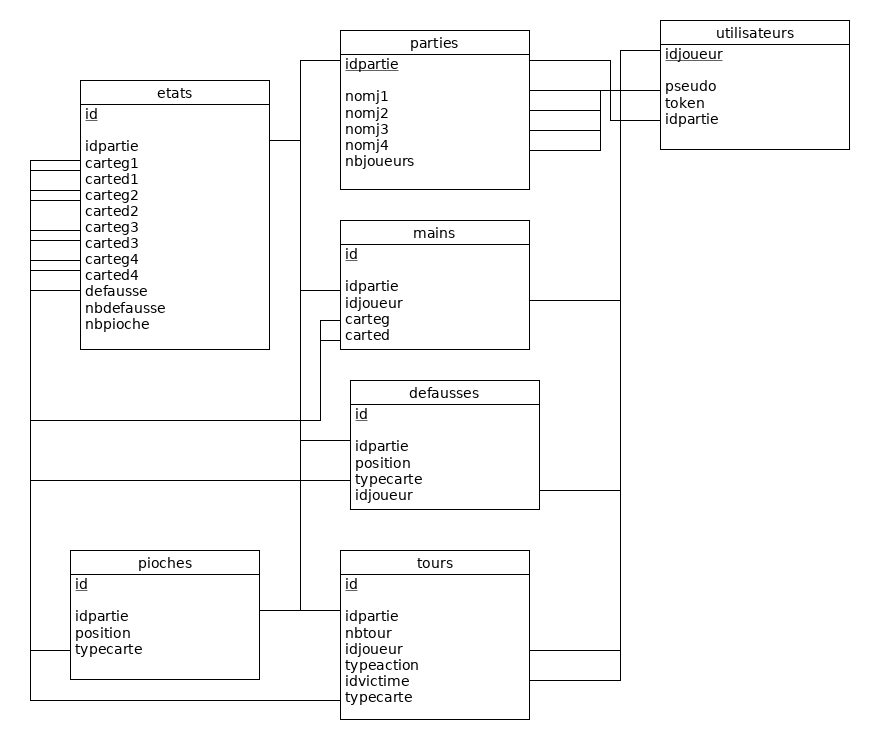
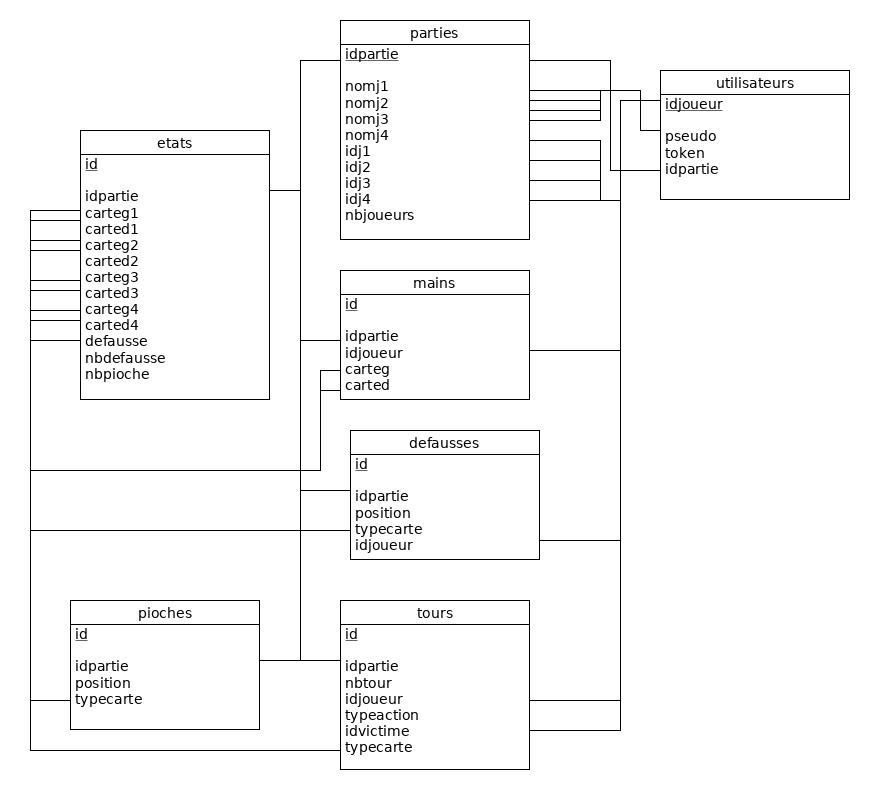
Changement de la BDD et creation des méthodes tirerCarte

diff --git a/app/Partie.php b/app/Partie.php
@@ -11,18 +11,21 @@ class Partie extends Model
     protected $primaryKey = 'idpartie';
 
     protected $attributes = array(
-      'nomj2' => '', 'nomj3' => '', 'nomj4' => ''
+      'nomj2' => '', 'nomj3' => '', 'nomj4' => '', 'idj2' => -1, 'idj3' => -1, 'idj4' => -1
     );
 
     protected $fillable = [
-        'idpartie', 'nomj1', 'nomj2', 'nomj3', 'nomj4', 'nbjoueurs'
+        'idpartie', 'nomj1', 'nomj2', 'nomj3', 'nomj4', 'nbjoueurs', 'idj1', 'idj2', 'idj3', 'idj4'
     ];
 
     //Dès qu'un utilisateur créé une partie, il la rejoint
     public static function creerPartie($pseudo,$nbjoueurs) {
-      $partie=Partie::create(['nomj1' => $pseudo, 'nbjoueurs' => $nbjoueurs]);
+      $idj1=Utilisateur::getUtilisateurFromPseudo($pseudo)->id;
+      $partie=Partie::create(['nomj1' => $pseudo, 'nbjoueurs' => $nbjoueurs, 'idj1' => $idj1]);
       $idpartie=$partie->idpartie;
       Pioche::initialiserPioche($idpartie);
+      Main::initialiserMains($idpartie,$nbjoueurs);
+      //Pioche::tirerCarte($idpartie,$idj1);
       return $idpartie;
     }
 
@@ -44,6 +47,7 @@ class Partie extends Model
       if ($this->nbjoueurs == 2) {
         if (empty($this->nomj2)) {
           $this->nomj2=$pseudo;
+          $this->idj2=Utilisateur::getUtilisateurFromPseudo($pseudo)->id;
           $this->save();
           return true;
         } else {
@@ -52,11 +56,13 @@ class Partie extends Model
       } else if ($this->nbjoueurs == 3) {
         if (empty($this->nomj2)) {
           $this->nomj2=$pseudo;
+          $this->idj2=Utilisateur::getUtilisateurFromPseudo($pseudo)->id;
           $this->save();
           return true;
         } else {
           if (empty($this->nomj3)) {
             $this->nomj3=$pseudo;
+            $this->idj3=Utilisateur::getUtilisateurFromPseudo($pseudo)->id;
             $this->save();
             return true;
           } else {
@@ -66,16 +72,19 @@ class Partie extends Model
       } else {
         if (empty($this->nomj2)) {
           $this->nomj2=$pseudo;
+          $this->idj2=Utilisateur::getUtilisateurFromPseudo($pseudo)->id;
           $this->save();
           return true;
         } else {
           if (empty($this->nomj3)) {
             $this->nomj3=$pseudo;
+            $this->idj3=Utilisateur::getUtilisateurFromPseudo($pseudo)->id;
             $this->save();
             return true;
           } else {
             if (empty($this->nomj4)) {
               $this->nomj4=$pseudo;
+              $this->idj4=Utilisateur::getUtilisateurFromPseudo($pseudo)->id;
               $this->save();
               return true;
             } else {

diff --git a/app/Main.php b/app/Main.php
@@ -7,4 +7,45 @@ use Illuminate\Database\Eloquent\Model;
 class Main extends Model
 {
     public $timestamps = false;
+
+    protected $attributes = array(
+      'carteg' => -1, 'carted' => -1
+    );
+
+    protected $fillable = [
+        'idpartie', 'idjoueur', 'carteg', 'carted'
+    ];
+
+    public static function initialiserMains($idpartie,$nbjoueurs) {
+      $idj1=Partie::getPartie($idpartie)->idj1;
+      $idj2=Partie::getPartie($idpartie)->idj2;
+
+      Main::create(["idpartie" => $idpartie, "idjoueur" => $idj1]);
+      Main::create(["idpartie" => $idpartie, "idjoueur" => $idj2]);
+
+      if ($nbjoueurs >= 3) {
+        $idj3=Partie::getPartie($idpartie)->idj3;
+        Main::create(["idpartie" => $idpartie, "idjoueur" => $idj3]);
+      }
+
+      if ($nbjoueurs == 4) {
+        $idj4=Partie::getPartie($idpartie)->idj4;
+        Main::create(["idpartie" => $idpartie, "idjoueur" => $idj4]);
+      }
+    }
+
+    /*public static function getMain($idpartie, $idjoueur) {
+      return Main::where('idpartie',$idpartie)->where('idjoueur',$idjoueur)->get()->first();
+    }*/
+
+    public static function tirerCarte($idpartie,$idjoueur,$typecarte) {
+      $main=Main::where('idpartie',$idpartie)->where('idjoueur',$idjoueur)->get()->first();
+      if ($main->carteg == -1) {
+        $main->carteg=$typecarte;
+        $main->save();
+      } else if ($main->carted == -1) {
+        $main->carted=$typecarte;
+        $main->save();
+      }
+    }
 }

diff --git a/app/Pioche.php b/app/Pioche.php
@@ -42,6 +42,25 @@ class Pioche extends Model
       }
     }
 
+    public static function tirerCarte($idpartie,$idjoueur) {
+      $carte=Pioche::where('idpartie', $idpartie)->where('position', 1)->get()->first();
+      $typecarte=$carte->typecarte;
+
+      //Suppression de la carte de la Pioche
+      $carte->delete();
+
+      //Décalage de toutes les positions
+      $size=Pioche::where('idpartie',$idpartie)->get()->count();
+      for($i=0;$i<$size;$i++){
+        $carte=Pioche::where('idpartie',$idpartie)->get()[$i];
+        $carte->position=$carte->position-1;
+        $carte->save();
+      }
+
+      //On ajoute la carte à la main du joueur
+      Main::tirerCarte($idpartie,$idjoueur,$typecarte);
+    }
+
 
 
 }

diff --git a/app/Http/Controllers/Welcome.php b/app/Http/Controllers/Welcome.php
@@ -16,8 +16,8 @@ class Welcome extends Controller
         $utilisateur=Utilisateur::getUtilisateurFromPseudoToken($pseudo,$token);
         if ($utilisateur) {
           if ($utilisateur->aUnePartie()) {
-            //TODO Ajouter des paramètres
-            return view('play');
+            header('Location: /partie/'.$utilisateur->idpartie.'/',true,302);
+            exit();
           } else {
             return view('welcome');
           }

diff --git a/database/migrations/2017_11_02_095353_create_parties_table.php b/database/migrations/2017_11_02_095353_create_parties_table.php
@@ -19,6 +19,10 @@ class CreatePartiesTable extends Migration
             $table->string('nomj2');
             $table->string('nomj3');
             $table->string('nomj4');
+            $table->integer('idj1');
+            $table->integer('idj2');
+            $table->integer('idj3');
+            $table->integer('idj4');
             $table->integer('nbjoueurs');
         });
     }
